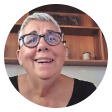
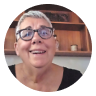
Update design per Figma node 3-3246
- New panel images (UTI, Bladder, Menopause all updated)
- New avatar photos
- Social proof card: blur 8px, border-radius 32px, padding 8px 12px
- Content left margin: 40px → 98px (6.81cqw per Figma)
- Heading vertical position: 50% → 46.9%
- Avatar size: 56px → 48px
- Social label: 'Trust Utiva†' two-line with dagger
- Remove period from bottom section text

diff --git a/index.html b/index.html
@@ -295,11 +295,11 @@
         pointer-events: none;
       }
 
-      /* Doctor badges: top=54px from hero, left=40px */
+      /* Doctor badges: top=54px from hero, left=98px */
       .dh-badges {
         position: absolute;
         top: 6.43%;          /* 54/840 */
-        left: 2.78cqw;       /* 40/1440 */
+        left: 6.81cqw;       /* 98/1440 */
         display: flex;
         align-items: center;
         gap: 0px;
@@ -332,13 +332,13 @@
         max-width: 12.5cqw;   /* ~180px */
       }
 
-      /* Heading: vertically centered in hero (top=50%) */
+      /* Heading: top=394px from hero top (498px from frame - 104px header) */
       .dh-heading {
         position: absolute;
-        top: 50%;
+        top: 46.9%;          /* 394/840 */
         transform: translateY(-50%);
-        left: 2.78cqw;
-        width: 30cqw;      /* ~430px — fits "Take control of your" on one line */
+        left: 6.81cqw;       /* 98/1440 */
+        width: 30cqw;
       }
       .dh-heading-line {
         font-family: 'General Sans', sans-serif;
@@ -366,14 +366,19 @@
       .dh-word-slot.dp-fading-out { opacity: 0; transform: translateY(-65%); filter: blur(8px); }
       .dh-word-slot.dp-fading-in  { opacity: 0; transform: translateY(65%);  filter: blur(8px); }
 
-      /* Social proof: top=685px from hero (81.55%) */
+      /* Social proof: frosted glass card, left=98px, top=689px from hero (82%) */
       .dh-social {
         position: absolute;
-        top: 81.55%;         /* 685/840 */
-        left: 2.78cqw;
+        top: 82%;            /* 689/840 */
+        left: 6.81cqw;       /* 98/1440 */
         display: flex;
         align-items: center;
-        gap: 0.56cqw;
+        gap: 0.56cqw;        /* 8px */
+        backdrop-filter: blur(8px);
+        -webkit-backdrop-filter: blur(8px);
+        background: rgba(255,255,255,0.1);
+        border-radius: 32px;
+        padding: 8px 12px;
       }
       .dh-avatars {
         display: flex;
@@ -381,7 +386,7 @@
         padding-right: 1.39cqw; /* compensate last overlap */
       }
       .dh-avatar {
-        width: 3.89cqw; height: 3.89cqw;
+        width: 3.33cqw; height: 3.33cqw; /* 48px */
         border-radius: 50%;
         object-fit: cover;
         margin-right: -1.39cqw; /* -20px */
@@ -654,7 +659,7 @@
         <img class="dh-avatar" src="./assets/avatar3.jpg" alt="">
         <img class="dh-avatar" src="./assets/avatar4.jpg" alt="">
       </div>
-      <span class="dh-social-label">100K+ Women Trust Utiva</span>
+      <span class="dh-social-label">100K+ Women<br>Trust Utiva†</span>
     </div>
 
     <!-- 3 Buttons (always visible) -->
@@ -690,7 +695,7 @@
 
 <!-- Bottom section (shown on both mobile and desktop) -->
 <div class="bottom-section">
-  <p>Better solutions for common women's health concerns.</p>
+  <p>Better solutions for common women's health concerns</p>
 </div>
 
 <script>
